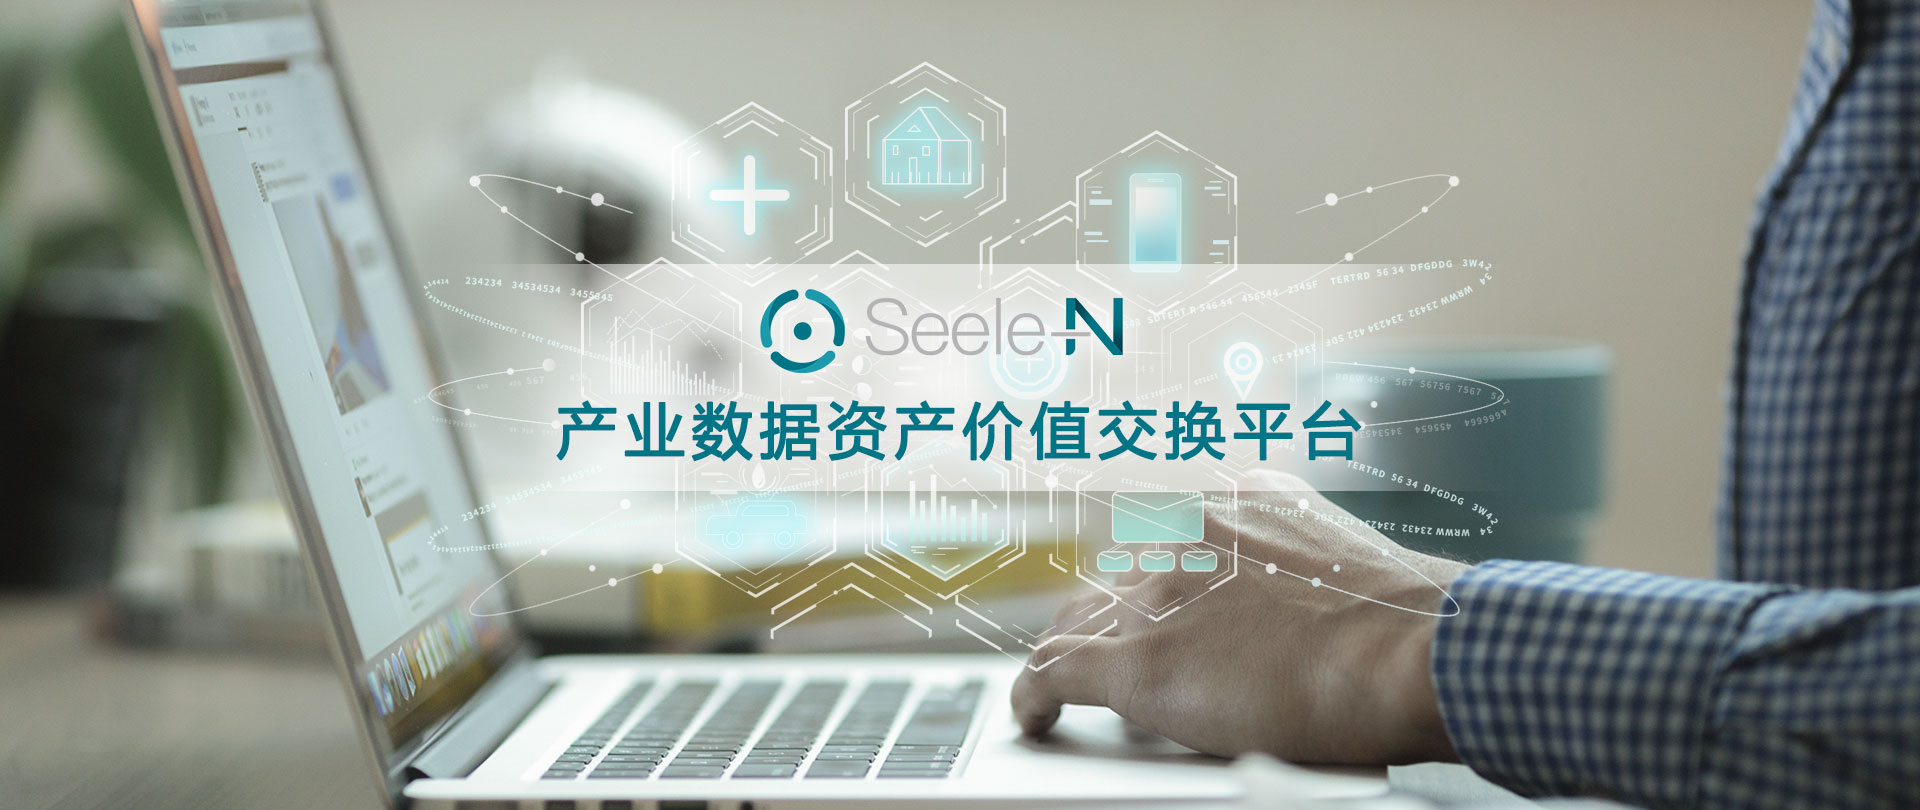
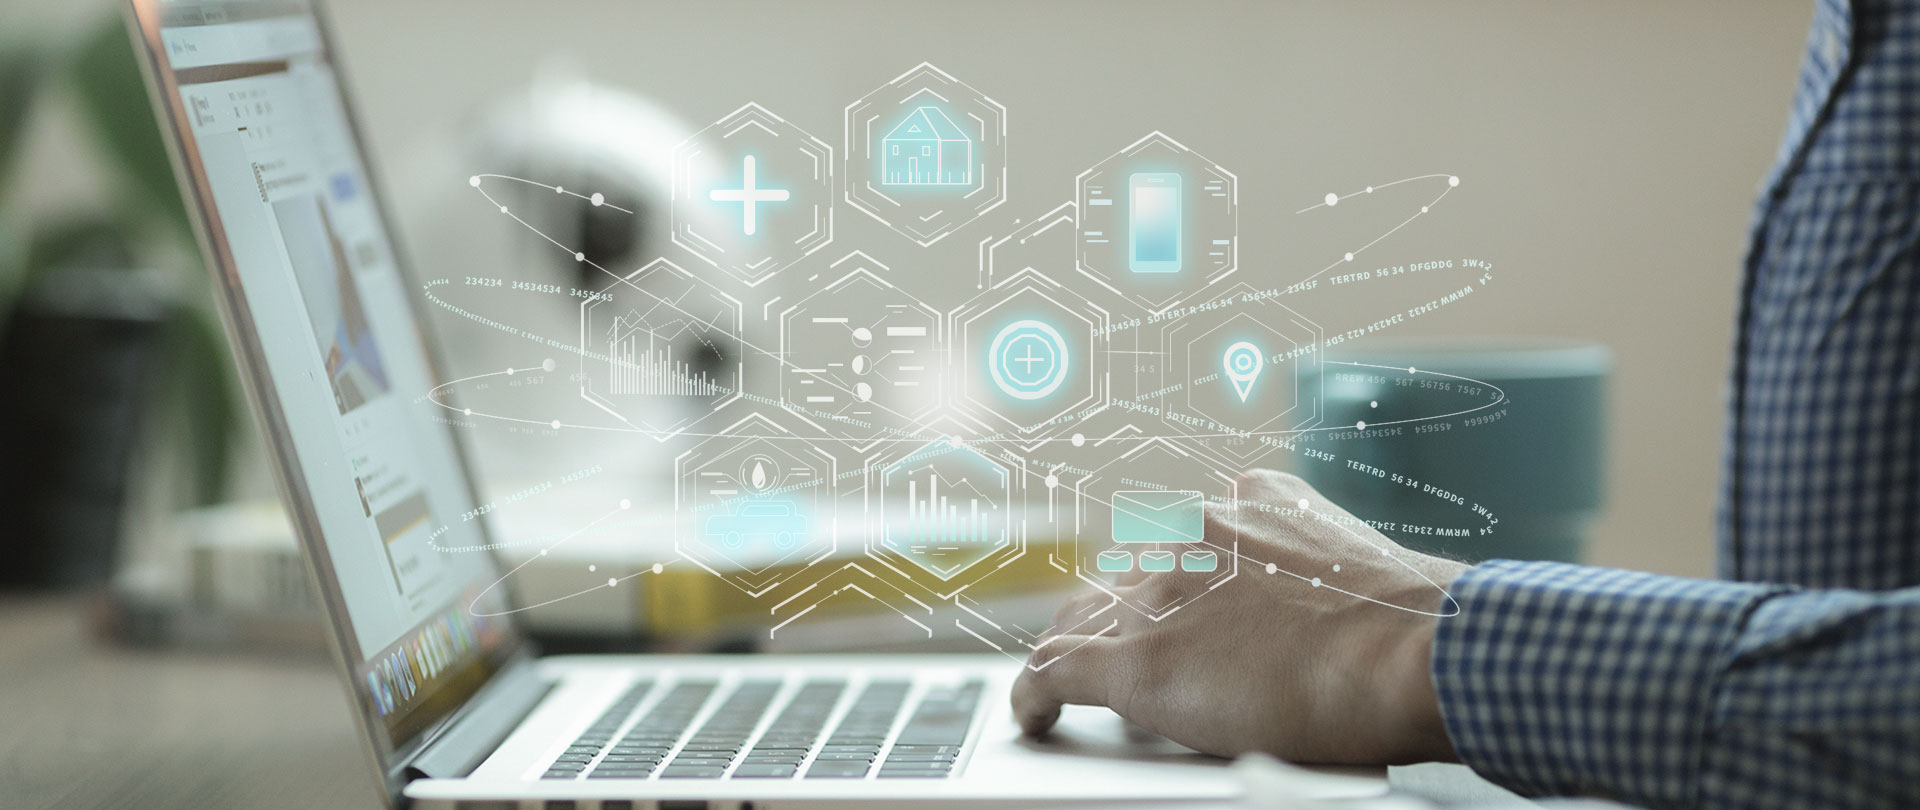
首页页面制作

Changed region(s): [[0.2812, 0.3086, 0.75, 0.6173]]

diff --git a/src/views/Home.vue b/src/views/Home.vue
@@ -1,8 +1,12 @@
 <template>
   <div class="container">
-    <div class="banner"></div>
+    <div class="banner-container">
+      <div class="banner wow zoomInBg" data-wow-duration="3s">
+        <img :src="$t('img.banner')" alt="" srcset="" class="wow fadeInUp" />
+      </div>
+    </div>
     <div class="col-1">
-      <div class="section">
+      <div class="section wow fadeInUp">
         <div class="con">
           <img src="../assets/video.jpg" alt="" srcset="" />
           <div>
@@ -17,32 +21,49 @@
       </div>
     </div>
     <div class="col-2">
-      <div class="section">
+      <div class="section wow fadeInUp">
         <ul>
-          <li class="li1"><img src="../assets/icon_1.png" alt="" srcset="" /></li>
+          <li class="li1">
+            <img src="../assets/icon_1.png" alt="" srcset="" />
+          </li>
           <li class="li2">MPoW</li>
-          <li class="li3">提出了一种名为Matrix Proof of Work(MPoW)的一致性算法，该算法具有记忆性，并且被认为具有抗ASIC的特性。</li>
+          <li class="li3">
+            提出了一种名为Matrix Proof of
+            Work(MPoW)的一致性算法，该算法具有记忆性，并且被认为具有抗ASIC的特性。
+          </li>
         </ul>
-        <ul>
-          <li class="li1"><img src="../assets/icon_2.png" alt="" srcset="" /></li>
+        <ul class="">
+          <li class="li1">
+            <img src="../assets/icon_2.png" alt="" srcset="" />
+          </li>
           <li class="li2">密码学</li>
-          <li class="li3">SeeleTech提出多重椭圆曲线数字签名算法
-（MECDSA），通过椭圆曲线数量和六个参数的动态调整，实现了适用于不同应用场景和安全需求的动态签名机制。</li>
+          <li class="li3">
+            SeeleTech提出多重椭圆曲线数字签名算法
+            （MECDSA），通过椭圆曲线数量和六个参数的动态调整，实现了适用于不同应用场景和安全需求的动态签名机制。
+          </li>
         </ul>
         <ul>
-          <li class="li1"><img src="../assets/icon_3.png" alt="" srcset="" /></li>
+          <li class="li1">
+            <img src="../assets/icon_3.png" alt="" srcset="" />
+          </li>
           <li class="li2">网络传输</li>
-          <li class="li3">通过选择节点的近邻，使消息于短时间内在整个网络中传播。该方法以传输延迟来标识节点到邻居的距离，延迟越低则邻居越近。</li>
+          <li class="li3">
+            通过选择节点的近邻，使消息于短时间内在整个网络中传播。该方法以传输延迟来标识节点到邻居的距离，延迟越低则邻居越近。
+          </li>
         </ul>
         <ul>
-          <li class="li1"><img src="../assets/icon_4.png" alt="" srcset="" /></li>
+          <li class="li1">
+            <img src="../assets/icon_4.png" alt="" srcset="" />
+          </li>
           <li class="li2">EDA</li>
-          <li class="li3">提出了一种新的数据排序机制，称为ε-差分协议（EDA），可以支持并行数据排序。</li>
+          <li class="li3">
+            提出了一种新的数据排序机制，称为ε-差分协议（EDA），可以支持并行数据排序。
+          </li>
         </ul>
       </div>
     </div>
     <div class="col-3">
-      <div class="section">
+      <div class="section wow fadeInUp">
         <div class="tit"><img :src="$t('img.tit3')" alt="" srcset="" /></div>
         <div class="con">
           <img src="../assets/img_3.jpg" alt="" srcset="" />
@@ -56,33 +77,121 @@
           </div>
         </div>
       </div>
+      <div class="section wow fadeInUp">
+        <div class="tab">
+          <div
+            class="tab-item"
+            :class="index == tabIndex ? 'tab-item-cur' : ''"
+            v-for="(item, index) in tabArr"
+            :key="index"
+            @click="changeTab(index)"
+          >
+            {{ item }}
+          </div>
+        </div>
+        <div class="img-con">
+          <template v-if="tabIndex == 0">
+            <img :src="$t('img.fk[0]')" alt="" srcset="" />
+            <img :src="$t('img.fk[1]')" alt="" srcset="" />
+            <img :src="$t('img.fk[2]')" alt="" srcset="" />
+          </template>
+          <template v-if="tabIndex == 1">
+            <img :src="$t('img.fk[0]')" alt="" srcset="" />
+            <img :src="$t('img.fk[1]')" alt="" srcset="" />
+            <img :src="$t('img.fk[2]')" alt="" srcset="" />
+          </template>
+          <template v-if="tabIndex == 2">
+            <img :src="$t('img.fk[0]')" alt="" srcset="" />
+            <img :src="$t('img.fk[1]')" alt="" srcset="" />
+            <img :src="$t('img.fk[2]')" alt="" srcset="" />
+          </template>
+        </div>
+      </div>
+    </div>
+    <div class="col-4">
       <div class="section">
-        <div class="tab"></div>
+        <div class="history-line"></div>
+        <div class="history-point wow fadeInRight">
+          <ul>
+            <li>{{$t('history[0].t1')}}</li>
+            <li>{{$t('history[0].t2')}}</li>
+            <li><img src="../assets/point.png" alt="" srcset="" /></li>
+            <li v-html="$t('history[0].txt')"></li>
+          </ul>
+          <ul>
+            <li>{{$t('history[1].t1')}}</li>
+            <li>{{$t('history[1].t2')}}</li>
+            <li><img src="../assets/point.png" alt="" srcset="" /></li>
+            <li v-html="$t('history[1].txt')"></li>
+          </ul>
+          <ul>
+            <li>{{$t('history[2].t1')}}</li>
+            <li>{{$t('history[2].t2')}}</li>
+            <li><img src="../assets/point.png" alt="" srcset="" /></li>
+            <li v-html="$t('history[2].txt')"></li>
+          </ul>
+          <ul>
+            <li>{{$t('history[3].t1')}}</li>
+            <li>{{$t('history[3].t2')}}</li>
+            <li><img src="../assets/point.png" alt="" srcset="" /></li>
+            <li v-html="$t('history[3].txt')"></li>
+          </ul>
+          <ul>
+            <li>{{$t('history[4].t1')}}</li>
+            <li>{{$t('history[4].t2')}}</li>
+            <li><img src="../assets/point.png" alt="" srcset="" /></li>
+            <li v-html="$t('history[4].txt')"></li>
+          </ul>
+        </div>
       </div>
     </div>
   </div>
 </template>
 
 <script>
+import { WOW } from "wowjs";
+
 export default {
   data() {
     return {
       lang: sessionStorage.getItem("LANG"),
+      tabIndex: 0,
+      tabArr: ["专项疾病防控", "传染研究", "卫生防疫"]
     };
   },
-  mounted() {}
+  methods: {
+    changeTab(index) {
+      this.tabIndex = index;
+    }
+  },
+  mounted() {
+    this.$nextTick(() => {
+      new WOW().init({
+        live: false
+      });
+    });
+  }
 };
 </script>
 
 <style lang="less">
+@import "../css/animate.less";
+.banner-container {
+  margin: 0 auto;
+  overflow: hidden;
+}
 .banner {
   height: 810px;
   background: url("../assets/banner.jpg") center 0 no-repeat;
+  display: flex;
+  align-items: center;
+  justify-content: center;
 }
 
 .col-1 {
   height: 643px;
   padding-top: 130px;
+  overflow: hidden;
   .section {
     background-color: #fafafa;
     .con {
@@ -106,6 +215,7 @@ export default {
 
 .col-2 {
   background-color: #fafafa;
+  overflow: hidden;
   .section {
     display: flex;
     flex-wrap: wrap;
@@ -141,6 +251,7 @@ export default {
 
 .col-3 {
   height: 1540px;
+  overflow: hidden;
   .section {
     padding-top: 90px;
     .tit {
@@ -163,6 +274,65 @@ export default {
           }
         }
       }
+    }
+    .tab {
+      height: 110px;
+      display: flex;
+      align-items: center;
+      justify-content: space-between;
+      padding: 0 90px;
+      border-bottom: 7px solid #007586;
+      .tab-item {
+        width: 309px;
+        height: 85px;
+        line-height: 85px;
+        font-size: 30px;
+        font-weight: bold;
+        text-align: center;
+        color: #007586;
+        background: url("../assets/tab.png") 0 0 no-repeat;
+      }
+      .tab-item-cur {
+        color: #ffffff;
+        background: url("../assets/tab_cur.png") 0 0 no-repeat;
+      }
+    }
+    .img-con {
+      display: flex;
+      justify-content: space-between;
+      padding-top: 50px;
+    }
+  }
+}
+
+.col-4 {
+  overflow: hidden;
+  height: 418px;
+  background-color: #fafafa;
+  .section {
+    position: relative;
+  }
+  .history-line {
+    width: 100%;
+    position: absolute;
+    top: 200px;
+    left: 0;
+    height: 10px;
+    background-color: #007082;
+    border-radius: 10px;
+  }
+  .history-point {
+    position: absolute;
+    top: 125px;
+    left: 0;
+    width: 100%;
+    display: flex;
+    justify-content: space-between;
+    ul > li {
+      text-align: center;
+      color: #007586;
+      padding-bottom: 10px;
+      font-weight: bold;
     }
   }
 }

diff --git a/src/lang/zh.js b/src/lang/zh.js
@@ -2,6 +2,35 @@ module.exports = {
   nav: ["首页", "团队", "技术生态", "产业合作", "白皮书", "新闻"],
   whitePager: "/pdf/zh/newpower.pdf",
   img: {
-    tit3: "/static/zh/tit_3.jpg"
-  }
+    banner: "/static/zh/banner_txt.png",
+    tit3: "/static/zh/tit_3.jpg",
+    fk: ["/static/zh/fk_1.jpg", "/static/zh/fk_2.jpg", "/static/zh/fk_3.jpg"]
+  },
+  history: [
+    {
+      t1: "2019-06",
+      t2: "Q1",
+      txt: "项目发布与治理结构搭建"
+    },
+    {
+      t1: "2019-06",
+      t2: "Q1",
+      txt: "中英美研发平台搭建<br>原理模型试验结果发布"
+    },
+    {
+      t1: "2019-06",
+      t2: "Q1",
+      txt: "测试平台上线<br>合约开发环境"
+    },
+    {
+      t1: "2019-06",
+      t2: "Q1",
+      txt: "平台上线合约<br>商城上线<br>先心安产品化"
+    },
+    {
+      t1: "2019-06",
+      t2: "Q1",
+      txt: "专病精准多级诊疗系统<br>算法路由末端芯片研发"
+    }
+  ]
 };

diff --git a/src/css/animate.less b/src/css/animate.less
@@ -2943,6 +2943,39 @@
   animation-name: zoomIn;
 }
 
+@-webkit-keyframes zoomInBg {
+  from {
+    opacity: 0;
+    -webkit-transform: scale3d(1.3, 1.3, 1.3);
+    transform: scale3d(1.3, 1.3, 1.3);
+  }
+
+  50% {
+    -webkit-transform: scale3d(1, 1, 1);
+    transform: scale3d(1, 1, 1);
+    opacity: 1;
+  }
+}
+
+@keyframes zoomInBg {
+  from {
+    opacity: 0;
+    -webkit-transform: scale3d(1.3, 1.3, 1.3);
+    transform: scale3d(1.3, 1.3, 1.3);
+  }
+
+  50% {
+    -webkit-transform: scale3d(1, 1, 1);
+    transform: scale3d(1, 1, 1);
+    opacity: 1;
+  }
+}
+
+.zoomInBg {
+  -webkit-animation-name: zoomInBg;
+  animation-name: zoomInBg;
+}
+
 @-webkit-keyframes zoomInDown {
   from {
     opacity: 0;

diff --git a/src/App.vue b/src/App.vue
@@ -68,6 +68,10 @@ export default {
 @import "css/reset";
 @import "css/hover";
 
+#app {
+  padding-top: 100px;
+}
+
 .section {
   width: 1200px;
   margin: 0 auto;
@@ -176,6 +180,5 @@ export default {
 
 .container {
   min-height: 300px;
-  padding-top: 100px;
 }
 </style>
